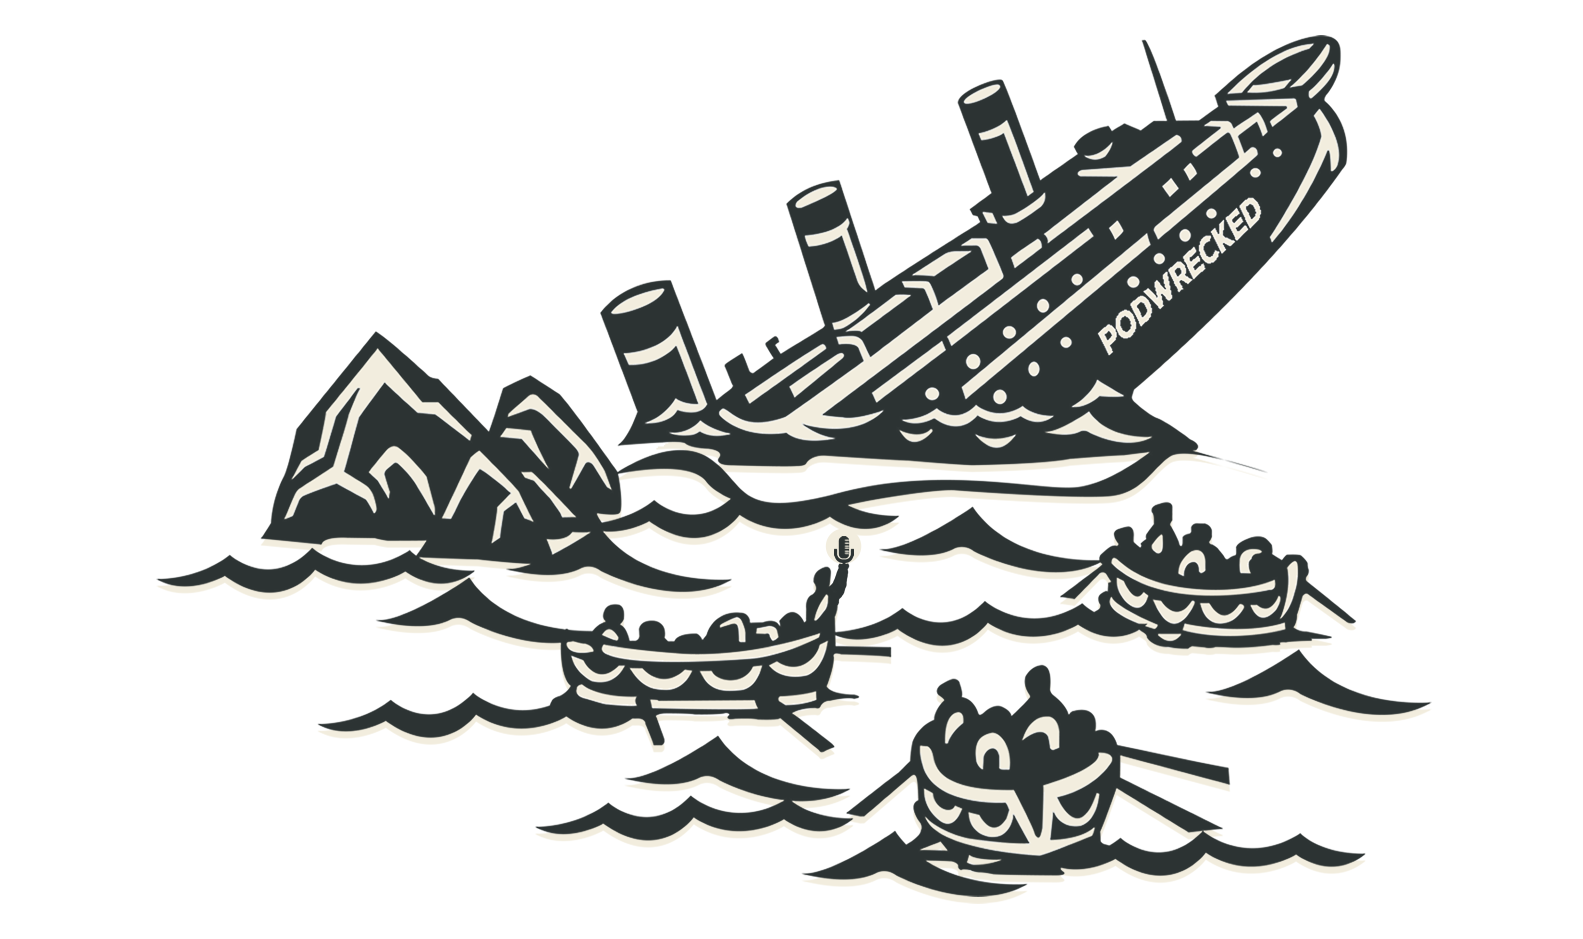
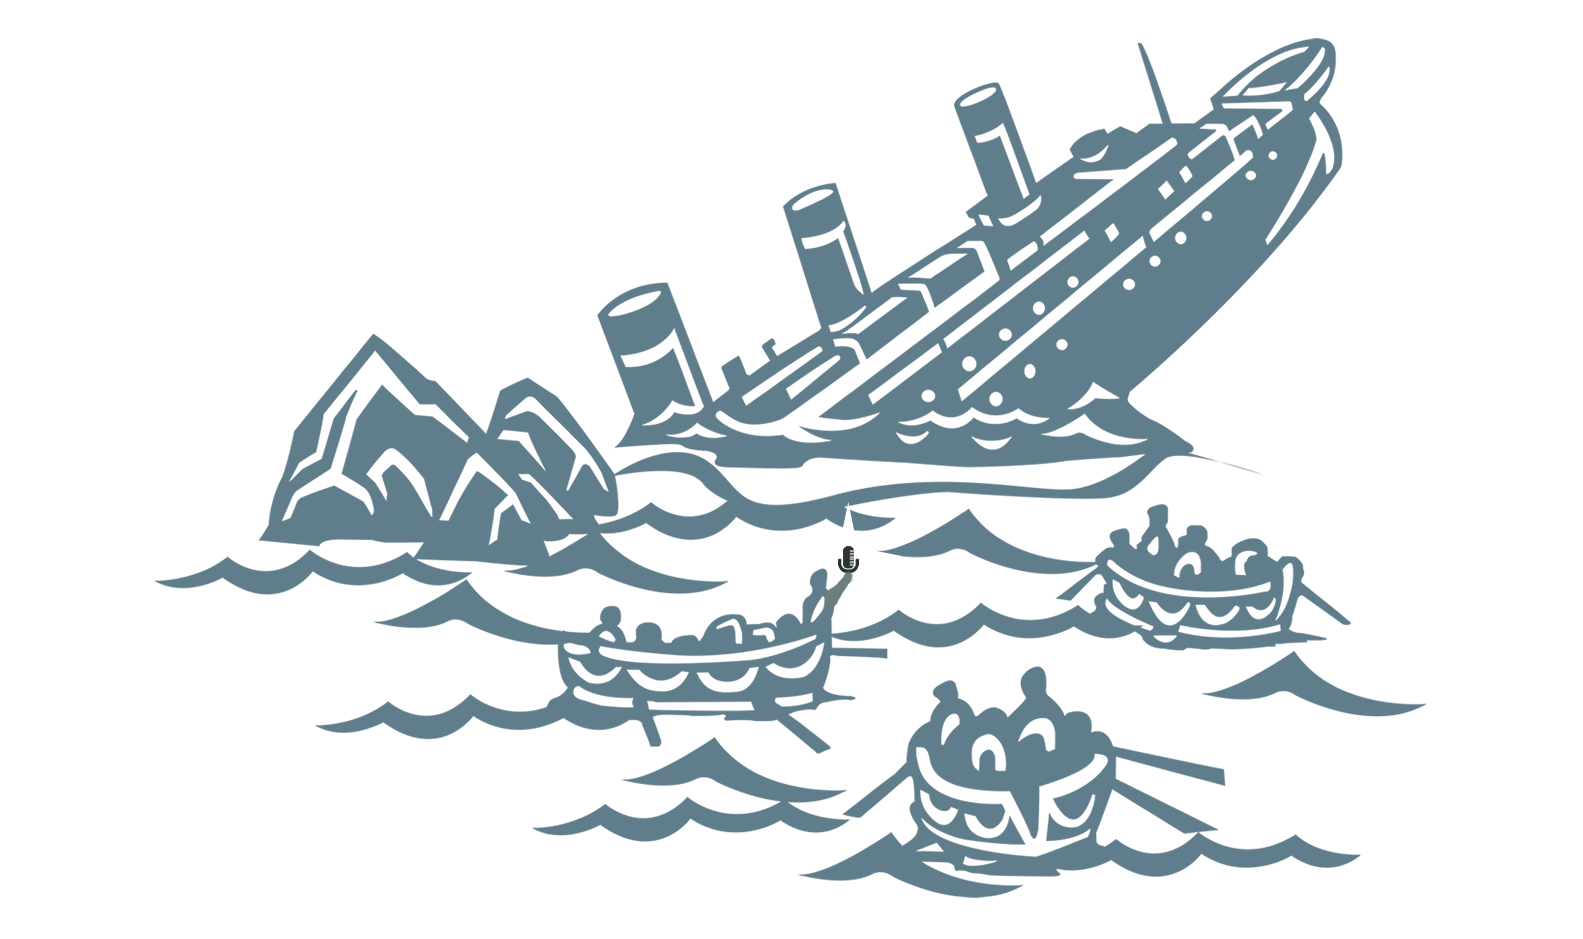
Changed main graphic and bg color

Changed region(s): [[0.0929, 0.0309, 0.8977, 0.9574]]

diff --git a/src/assets/styles/base.css b/src/assets/styles/base.css
@@ -33,7 +33,7 @@
 
   .bg-dark {
     /* background-color: rgb(46, 79, 79); */
-    background-color: #101B21;
+    background-color: #37474F;
   }
 
   .bg-latest {

diff --git a/src/content/post/ep003-to-pay-or-not-to-pay-for-podcasts.md b/src/content/post/ep003-to-pay-or-not-to-pay-for-podcasts.md
@@ -1,8 +1,8 @@
 ---
 publishDate: 2018-11-23T02:08:00Z
 title: 'To Pay or Not to Pay for Podcasts'
-description: Tim and Kyle talk about what podcasting from a "walled garden" model means to indy podcasters and what subscription model podcasting could mean for the future of podcasting.
-excerpt: Tim and Kyle talk about what podcasting from a "walled garden" model means to indy podcasters and what subscription model podcasting could mean for the future of podcasting.
+description: Tim and Kyle talk about what podcasting from a walled garden model means to indy podcasters and what subscription model podcasting could mean for the future of podcasting.
+excerpt: Tim and Kyle talk about what podcasting from a walled garden model means to indy podcasters and what subscription model podcasting could mean for the future of podcasting.
 image: ~/assets/images/podwrecked.com-to-pay-or-not-to-pay-for-podcasts-960x400.jpg
 category: Monetization
 tags:
@@ -20,7 +20,7 @@ Podwrecked Ep.003
 
 ## Episode #003
 
-- What does it mean if podcasts can only be listened to via a paywall subscription?
+- We find out what it means if podcasts can only be listened to via a paywall subscription
 
 ## What did we learn?
 
